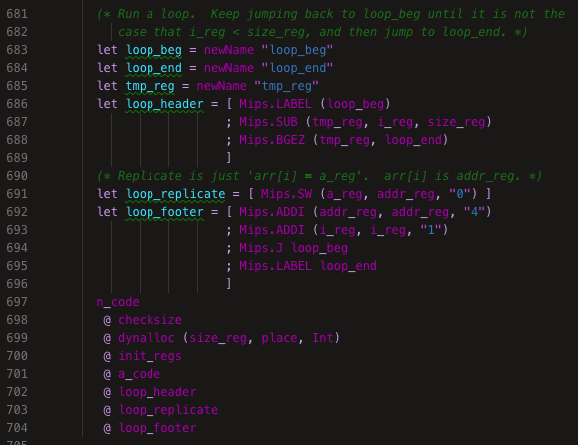
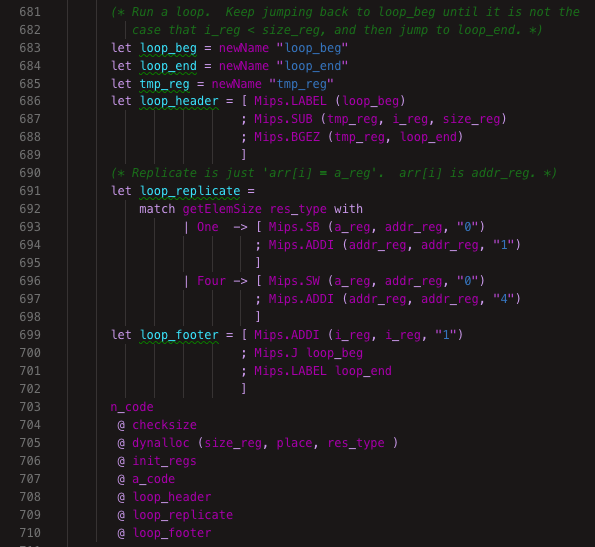
Changes in CodeGen

diff --git a/Sections/CodeGen/Filter.tex b/Sections/CodeGen/Filter.tex
@@ -2,9 +2,9 @@
 \includegraphics[width=\linewidth]{Materials/CodeGen/filterIntro}
 Filter is implemented much like 'map'. To implement filter we first create a new array of the same size as the input array. We also create some new registers to keep track of the memory locations of the elements in the new array (\textit{addr\_reg}) and the input array (\textit{elem\_reg}). Lastly we create a register (\textit{j\_reg}) to count how many elements we have added to the new array.\\
 The idea is we create a loop where we apply the input function on the first element of the input array, and if the output is \textit{true} we then add it to the new array, we add to the registers working as pointers to the elements in the array such that we move to the next entry in the arrays and lastly we add one to our counter register \textit{j\_reg}. If the output is \textit{false}, we only add to the \textit{elem\_reg} and then begin the loop anew on the next element of the input array.\\
-We do this by loading the value of the input array into \textit{res\_reg} and apply the input function using the helper function \textit{applyFunArg} on lines 745-750.
+We do this by loading the value of the input array into \textit{res\_reg} and apply the input function using the helper function \textit{applyFunArg} on lines 751-756.
  
 \includegraphics[width=\linewidth]{Materials/CodeGen/filter1}
-We now have either '1' or '0' (true, false) in \textit{res\_reg}. We now load the value of \textit{elem\_reg} into a temporary register for use if the result is true. Then we add to \textit{elem\_reg} to have it point to the next entry of the input array. We now do a conditional branching. If the value of \textit{res\_reg} is true, we fall through, else we jump. In the case the result is \textit{true}, we save the value in \textit{tmp\_reg} in \textit{addr\_reg}, we add to \textit{addr\_reg} such that it points to the next entry of the array and we add 1 to \textit{j\_reg}. Then we meet the point where we would jump to if the result had been false (line 765), and the loop begins anew. All of this is done on lines 751-767. When the loop terminates after having iterated over all entries in the input array, we then shrink the size of our new array to its actual size using \textit{j\_reg} on line 769.
+We now have either '1' or '0' (true, false) in \textit{res\_reg}. We now load the value of \textit{elem\_reg} into a temporary register for use if the result is true. Then we add to \textit{elem\_reg} to have it point to the next entry of the input array. We now do a conditional branching. If the value of \textit{res\_reg} is true, we fall through, else we jump. In the case the result is \textit{true}, we save the value in \textit{tmp\_reg} in \textit{addr\_reg}, we add to \textit{addr\_reg} such that it points to the next entry of the array and we add 1 to \textit{j\_reg}. Then we meet the point where we would jump to if the result had been false (line 771), and the loop begins anew. All of this is done on lines 757-773. When the loop terminates after having iterated over all entries in the input array, we then shrink the size of our new array to its actual size using \textit{j\_reg} on line 775.
 
 \includegraphics[width=\linewidth]{Materials/CodeGen/filter2}

diff --git a/Sections/CodeGen/Scan.tex b/Sections/CodeGen/Scan.tex
@@ -1,6 +1,6 @@
 \subsection{Scan}
 \includegraphics[width=\linewidth]{Materials/CodeGen/Scan1}
-To implement Scan we first evaluate the input array, then we create a new array of size 'input\_array\_size + 1' to make space for the initial value (lines 798-799). Next we evaluate the accumulator expression. In the pre\_loop\_code the initial value of the accumulator is saved in the new array (lines 809-810).\\
+To implement Scan we first evaluate the input array, then we create a new array of size 'input\_array\_size + 1' to make space for the initial value (lines 804-805). Next we evaluate the accumulator expression. In the pre\_loop\_code the initial value of the accumulator is saved in the new array (lines 815-816).\\
 The idea is we create a register to hold the accumulated value. Then we create a loop in where we apply the supplied function on the value in the accumulated register and the element in the input array and we save the value in the accumulated register. Then we save the value in the accumulated register in the new array and we begin the loop anew.
 \includegraphics[width=\linewidth]{Materials/CodeGen/Scan2}
-After we have tested whether the loop should terminate, we load the value of the input array into a temporary register (lines 819-826). We then apply the input function on the temporary register and the accumulator register and save the result in the accumulator register (lines 827-828). Lastly we save the value of the accumulator register in the new array and updates 'addr\_reg' to point to the next entry in the new array and we update 'i\_reg' and begin the loop anew.
+After we have tested whether the loop should terminate, we load the value of the input array into a temporary register (lines 825-832). We then apply the input function on the temporary register and the accumulator register and save the result in the accumulator register (lines 833-834). Lastly we save the value of the accumulator register in the new array and updates 'addr\_reg' to point to the next entry in the new array and we update 'i\_reg' and begin the loop anew.

diff --git a/Sections/CodeGen/Replicate.tex b/Sections/CodeGen/Replicate.tex
@@ -2,5 +2,5 @@
 \includegraphics[width=\linewidth]{Materials/CodeGen/ReplicateIntro}
 To implement replicate we first check if the given '\textit{n expression}' is greater than zero, and then we create a new array of size \textit{n} (lines 652-669). Then we create a register \textit{addr\_reg} which points to the first entry in the new array and we create another register \textit{a\_reg} which contains our given input which we want to replicate.\\
 The idea is we create a loop and in each iteration we put the value of \textit{a\_reg} into the new array.\\
-First we save the value of \textit{a\_reg} in \textit{addr\_reg} such that the entry in the new array which \textit{addr\_reg} points to now contains the replicated value. Then we add to \textit{addr\_reg} so it points to the next entry and we update the loop counter \textit{i\_reg} and start the loop anew. All of this is done on lines 683-696.\\
+First we save the value of \textit{a\_reg} in \textit{addr\_reg} such that the entry in the new array which \textit{addr\_reg} points to now contains the replicated value. Then we add to \textit{addr\_reg} so it points to the next entry and we update the loop counter \textit{i\_reg} and start the loop anew. All of this is done on lines 682-701.\\
 \includegraphics[width=\linewidth]{Materials/CodeGen/Replicate1}
